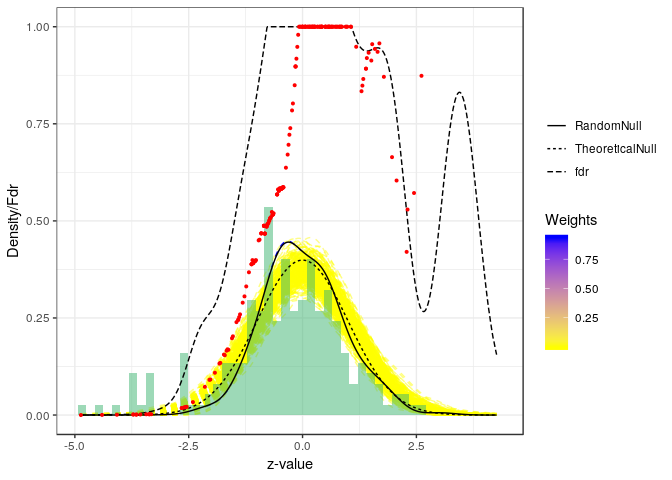
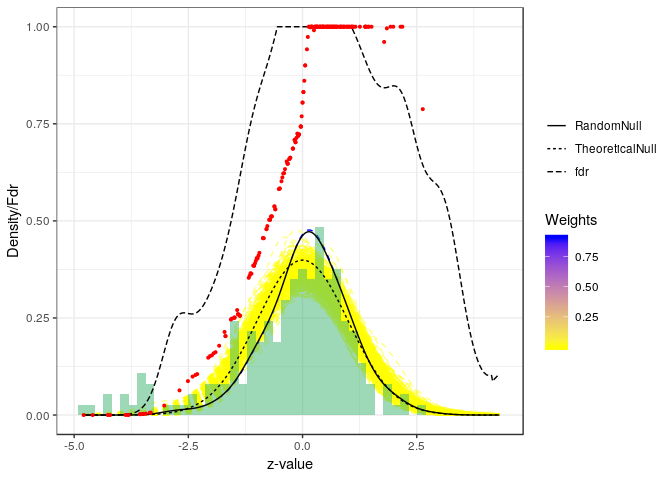
Quantile rather than table

diff --git a/README.md b/README.md
@@ -36,7 +36,7 @@ The method provides an estimate of the proportion of true null hypothesis, which
 fdrRes$p0
 ```
 
-    ## [1] 0.8771698
+    ## [1] 0.8814992
 
 The result of the procedure can be represented graphically as follows:
 
@@ -56,6 +56,9 @@ fit = lm(y~x)
 c(summary(fit)$coef["x1","t value"], fit$df.residual)},
 quantileFun = function(q){pt(q = q[1], df = q[2])})
 ```
+
+    ## Warning in getG0(zValObs = zValObs, zValsMat = zValsMat, z0Quant = z0Quant, : Consensus null estimation did not converge,
+    ##               please investigate cause!
 
 This framework also accepts more than 2 groups, and additional covariates through the
 
@@ -100,121 +103,8 @@ The estimated tail-area false discovery rates can then simply be extracted as
 
 ``` r
 FdrVDP = testVanDePutte$Fdr
-table(FdrVDP)
+quantile(FdrVDP)
 ```
 
-    ## FdrVDP
-    ## 4.95008865169199e-16 5.03777974128808e-16 1.12260297115581e-15 
-    ##                    1                    1                    1 
-    ## 1.27945798670333e-15 1.30897474671501e-15 1.31230052869226e-15 
-    ##                    1                    1                    1 
-    ##  1.5310172834743e-15 1.53812597887805e-15 1.95586992892796e-15 
-    ##                    1                    1                    2 
-    ## 2.01150886331769e-15 2.04789907592708e-15 2.09708671484518e-15 
-    ##                    1                    1                    1 
-    ## 2.10397342726513e-15 2.10565348474071e-15 2.10799153392141e-15 
-    ##                    1                    2                    1 
-    ## 2.17654301343915e-15 2.21854854669345e-15 2.25273692251218e-15 
-    ##                    1                    1                    1 
-    ##  2.4565957321975e-15 2.61620606994498e-15 2.76912623416867e-15 
-    ##                    1                    1                    1 
-    ## 1.36615796443646e-14 4.83024985142979e-14 2.36774997323741e-13 
-    ##                    1                    1                    1 
-    ## 3.37997344766521e-13  5.4983006925287e-13 5.98022549027332e-13 
-    ##                    1                    2                    1 
-    ## 5.40676337188752e-12 8.41761204652414e-12 8.69819911474162e-12 
-    ##                    2                    1                    1 
-    ## 1.66792779515429e-10 5.43423645053634e-09 7.78285270400475e-09 
-    ##                    1                    1                    1 
-    ## 1.50144255390329e-08 1.99721313679254e-08 5.89588728502788e-08 
-    ##                    1                    1                    1 
-    ## 6.05523559002863e-08 9.63837789485178e-08 1.01656611033707e-07 
-    ##                    1                    1                    1 
-    ## 1.20475441457811e-07 1.89532840166332e-07 3.62233939606924e-07 
-    ##                    1                    1                    1 
-    ## 1.62727329405808e-06 1.66511685903617e-06 1.88587040450976e-06 
-    ##                    1                    1                    1 
-    ## 1.90471850394983e-06 2.17534891252454e-06 2.85454534925052e-06 
-    ##                    1                    1                    1 
-    ## 2.91528035668138e-06 7.20927318766823e-06 7.94166823170486e-06 
-    ##                    1                    1                    1 
-    ## 1.01052431079905e-05 1.07815082124087e-05 1.28782654997451e-05 
-    ##                    1                    1                    1 
-    ## 1.65230290429899e-05 3.08763779484774e-05 3.22749768687826e-05 
-    ##                    1                    1                    1 
-    ## 3.25476295215558e-05 4.63018980010945e-05 4.87283403488205e-05 
-    ##                    1                    1                    1 
-    ## 9.04173043944531e-05 9.86548334959835e-05 0.000110418452558556 
-    ##                    1                    2                    1 
-    ## 0.000433628992895715 0.000500000873869002  0.00118874720158561 
-    ##                    1                    1                    1 
-    ##  0.00171530972784893  0.00237108483619838  0.00342536615942663 
-    ##                    1                    1                    1 
-    ##  0.00406887322832013  0.00536834033929516  0.00600884892265351 
-    ##                    1                    1                    1 
-    ##  0.00728528424521806  0.00742131211650239   0.0080961671694382 
-    ##                    1                    1                    1 
-    ##  0.00826405617458575  0.00837883473256611  0.00950303150301366 
-    ##                    1                    1                    1 
-    ##   0.0120044298413049   0.0123194045895103   0.0139867824630048 
-    ##                    1                    1                    1 
-    ##   0.0141708190743602    0.014885200455686   0.0152576694061138 
-    ##                    1                    1                    1 
-    ##   0.0154489801305966   0.0156420923822291   0.0184524739899349 
-    ##                    1                    1                    1 
-    ##   0.0200418891217567   0.0203946251687023   0.0205248262090279 
-    ##                    2                    1                    1 
-    ##   0.0206317719729895   0.0219201511801311   0.0233561239880936 
-    ##                    1                    1                    1 
-    ##   0.0236400468277531   0.0236935454309173   0.0254794079870113 
-    ##                    1                    1                    1 
-    ##   0.0268160276690377   0.0278184316546946   0.0319506741703952 
-    ##                    1                    1                    1 
-    ##   0.0325876756664196   0.0329343530671262   0.0339962972029888 
-    ##                    1                    2                    1 
-    ##   0.0374921738166161   0.0414800993620563   0.0460077076074791 
-    ##                    1                    1                    1 
-    ##   0.0482450023460838   0.0506114915447176   0.0531102399536041 
-    ##                    1                    1                    1 
-    ##   0.0557437189344498   0.0579568817492154   0.0608439616917176 
-    ##                    1                    2                    1 
-    ##   0.0710012025609829   0.0716647652017398   0.0744816677448135 
-    ##                    1                    1                    1 
-    ##   0.0774046479886476   0.0781083266067262   0.0797278803024038 
-    ##                    1                    1                    3 
-    ##   0.0984877116327077    0.103025296319983    0.106808913799094 
-    ##                    1                    1                    1 
-    ##    0.119612835778766    0.127026532580436    0.128131111124614 
-    ##                    1                    1                    1 
-    ##    0.136021576196122    0.140709906938473    0.144334103741133 
-    ##                    1                    1                    1 
-    ##     0.15446739280321    0.155855181077933    0.155871641828693 
-    ##                    2                    1                    1 
-    ##    0.173581857540526    0.176826378242218      0.2063143359631 
-    ##                    1                    2                    6 
-    ##    0.218665894408861    0.251301763537894    0.277956275585706 
-    ##                    1                    1                    1 
-    ##    0.306846932823304    0.313239577257123    0.330631106899879 
-    ##                    1                    2                    1 
-    ##    0.335325754010388     0.34882953313283    0.371851612020517 
-    ##                    1                    1                    2 
-    ##    0.400787002842237    0.422360118910905     0.44484560279308 
-    ##                    3                    1                    1 
-    ##    0.472887228055256    0.486853286684304    0.504450393431929 
-    ##                    1                    1                    3 
-    ##    0.530465812428381    0.564413017764942    0.592793424874401 
-    ##                    1                    2                    1 
-    ##    0.622149683890436    0.627626355395426    0.630745388674743 
-    ##                    1                    1                    1 
-    ##     0.68348838511907    0.717592768232617    0.717720504304466 
-    ##                    7                    1                    1 
-    ##    0.719609034125229    0.728122250743661    0.738829930901656 
-    ##                    1                    1                    1 
-    ##     0.75105863502536    0.775601319720923    0.813614536936289 
-    ##                    2                    1                    1 
-    ##    0.826131683658385    0.832731422284108    0.838653758319712 
-    ##                    1                    1                    1 
-    ##    0.866040679175472    0.866196669140068    0.955803221120074 
-    ##                    1                    1                    6 
-    ##                    1 
-    ##                   30
+    ##           0%          25%          50%          75%         100% 
+    ## 4.879994e-16 2.535337e-05 9.456799e-02 6.976162e-01 1.000000e+00
